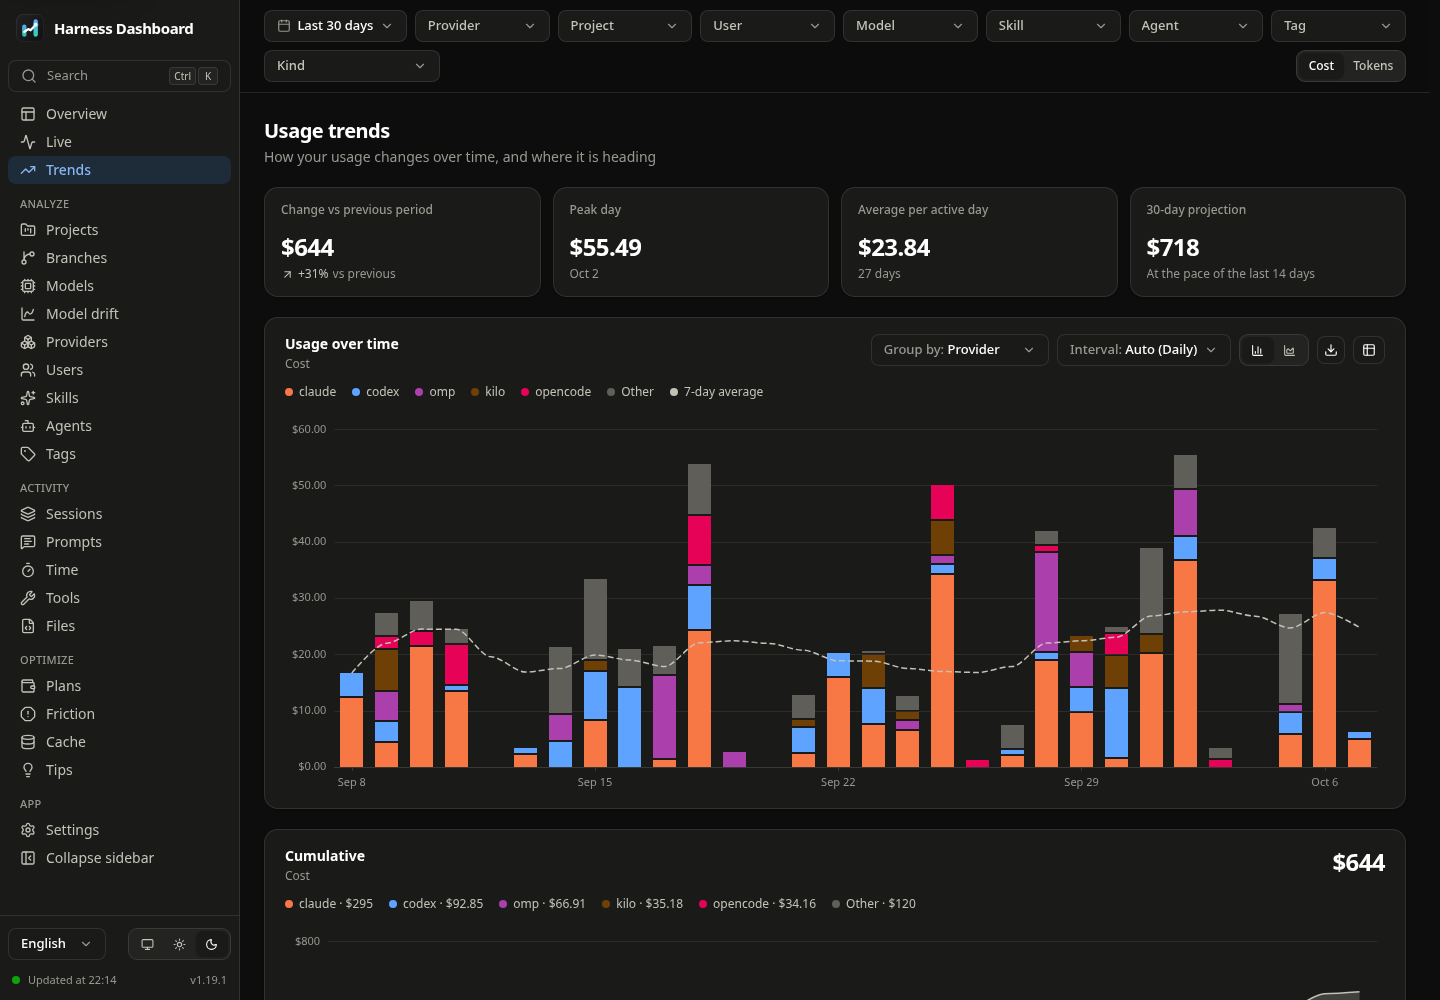
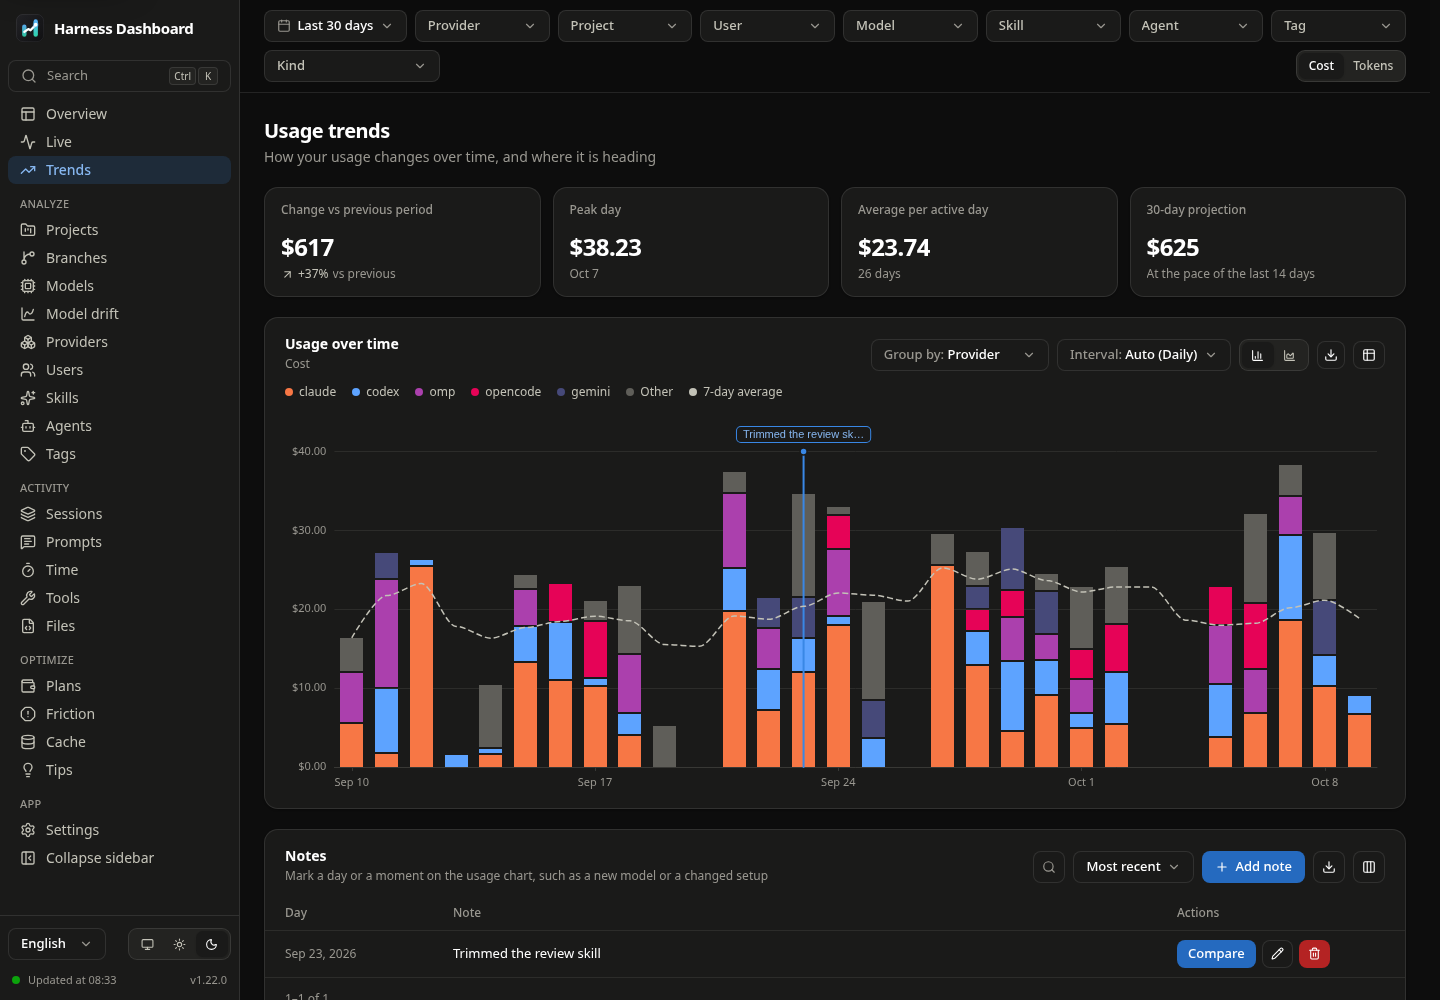
docs: README screenshots of chart notes, commits and PRs, compactions, what-if pricing and API errors, all retaken

diff --git a/scripts/screenshots.ts b/scripts/screenshots.ts
@@ -98,6 +98,72 @@ const SHOTS: Shot[] = [
   { name: "tips", route: "tips" },
   { name: "settings", route: "settings" },
   {
+    name: "note-compare",
+    route: "trends",
+    width: 1600,
+    // The first note's before and after, under the notes list.
+    prepare: async (p) => {
+      await clickButton(p, "Compare");
+      await p.waitFor(`[...document.querySelectorAll("main h2, main h3")].some((h) => h.textContent.trim().startsWith("Before and after"))`, "the before and after card");
+      await p.settle(300);
+      await p.idle();
+    },
+    clip: (p) => cardsClip(p, "Notes", "Before and after"),
+  },
+  {
+    name: "whatif",
+    route: "models",
+    width: 1600,
+    // The models table priced again on another model.
+    prepare: async (p) => {
+      await p.eval(`document.querySelector('main button[title^="Compare with"]').click()`);
+      await p.waitFor(`!!document.querySelector("[role=listbox] [role=option]")`, "the model list");
+      await p.eval(`(() => {
+        const options = [...document.querySelectorAll("[role=listbox] [role=option]")];
+        (options.find((o) => o.textContent.trim().startsWith("claude-haiku-4-5")) ?? options.find((o) => !/In use|No comparison/.test(o.textContent)))?.click();
+      })()`);
+      await p.waitFor(`document.body.innerText.includes("Cost if switched")`, "the what-if columns");
+      await p.settle(300);
+      await p.idle();
+    },
+    clip: (p) => tableClip(p, "Cost if switched"),
+  },
+  {
+    name: "branch-git",
+    route: "branches",
+    prepare: async (p) => {
+      await openFirst(p, "#/branches/");
+      await p.waitFor(`[...document.querySelectorAll("main h2, main h3")].some((h) => h.textContent.trim() === "Commits")`, "the branch's commits");
+    },
+    clip: (p) => cardsClip(p, "Pull requests", "Commits"),
+  },
+  {
+    name: "compactions",
+    route: "sessions",
+    // The session with the most compactions: its context chart with their markers, and their list.
+    prepare: async (p) => {
+      const id = await p.eval<string | null>(`(async () => {
+        const r = await (await fetch("/api/sessions?range=30d&limit=500")).json();
+        const rows = (Array.isArray(r) ? r : r.rows ?? r.sessions ?? []).filter((s) => s.compactions > 0);
+        rows.sort((a, b) => b.compactions - a.compactions);
+        return rows[0]?.id ?? null;
+      })()`);
+      if (!id) fail("no demo session with compactions");
+      await p.eval(`location.hash = ${JSON.stringify(`#/sessions/${encodeURIComponent(id)}`)}`);
+      await p.waitFor(`[...document.querySelectorAll("main h2, main h3")].some((h) => h.textContent.trim() === "Compactions")`, "the compactions list");
+      await p.settle(300);
+      await p.idle();
+      await p.settle(500);
+    },
+    clip: (p) => cardsClip(p, "Context by agent", "Context by agent"),
+  },
+  {
+    name: "api-errors",
+    route: "friction",
+    width: 1600,
+    clip: (p) => cardsClip(p, "API errors over time", "API errors by model"),
+  },
+  {
     name: "palette",
     route: "overview",
     prepare: async (p) => {
@@ -119,6 +185,36 @@ function cardClip(p: Page, title: string): Promise<Clip> {
     const r = card.getBoundingClientRect();
     return { x: r.left - 8, y: r.top + scrollY - 8, width: r.width + 16, height: r.height + 16 };
   })()`);
+}
+
+/** The cards from the one titled `first` to the one titled `last` (a title, or the start of one), wherever they sit. */
+function cardsClip(p: Page, first: string, last: string): Promise<Clip> {
+  return p.eval<Clip>(`(() => {
+    const card = (title) => [...document.querySelectorAll("main h2, main h3")].find((h) => h.textContent.trim().startsWith(title))?.closest(".card");
+    const a = card(${JSON.stringify(first)}), b = card(${JSON.stringify(last)});
+    if (!a || !b) throw new Error(${JSON.stringify(`cards not found: ${first} … ${last}`)});
+    const ra = a.getBoundingClientRect(), rb = b.getBoundingClientRect();
+    const x = Math.min(ra.left, rb.left), r = Math.max(ra.right, rb.right);
+    const y = Math.min(ra.top, rb.top) + scrollY, bottom = Math.max(ra.bottom, rb.bottom) + scrollY;
+    return { x: x - 8, y: y - 8, width: r - x + 16, height: bottom - y + 16 };
+  })()`);
+}
+
+/** The card holding the table with a column headed `column`. */
+function tableClip(p: Page, column: string): Promise<Clip> {
+  return p.eval<Clip>(`(() => {
+    const th = [...document.querySelectorAll("main th")].find((h) => h.textContent.trim().startsWith(${JSON.stringify(column)}));
+    const card = th?.closest(".card");
+    if (!card) throw new Error(${JSON.stringify(`table not found: ${column}`)});
+    const r = card.getBoundingClientRect();
+    return { x: r.left - 8, y: r.top + scrollY - 8, width: r.width + 16, height: Math.min(r.height, 900) + 16 };
+  })()`);
+}
+
+/** Clicks the first button on the page whose text is `text`. */
+async function clickButton(p: Page, text: string): Promise<void> {
+  await p.waitFor(`[...document.querySelectorAll("main button")].some((b) => b.textContent.trim() === ${JSON.stringify(text)})`, `a "${text}" button`);
+  await p.eval(`[...document.querySelectorAll("main button")].find((b) => b.textContent.trim() === ${JSON.stringify(text)}).click()`);
 }
 
 /** Clicks the first row of the page's table, which opens its detail page ("#/sessions/<id>"). */

diff --git a/README.md b/README.md
@@ -52,6 +52,9 @@ Everything runs locally. Your usage is never uploaded anywhere.
     <td width="50%"><img src="docs/screenshots/trends.png" alt="Trends: daily usage, a moving average and the running total"><br><sub><b>Trends</b>: daily usage, a moving average and the running total</sub></td>
   </tr>
   <tr>
+    <td colspan="2"><img src="docs/screenshots/note-compare.png" alt="Chart notes: a note on the usage chart, and the 14 days after it against the 14 days before"><br><sub><b>Chart notes</b>: mark a day on Trends, then compare the days after it with the days before</sub></td>
+  </tr>
+  <tr>
     <td width="50%"><img src="docs/screenshots/flow.png" alt="Where the money goes: from tool to model to project"><br><sub><b>Where the money goes</b>: from tool to model to project</sub></td>
     <td width="50%"><img src="docs/screenshots/network.png" alt="Models by project: a network of what used what, with lights along the busiest links"><br><sub><b>Who used what</b>: models and the projects they worked on, as a network</sub></td>
   </tr>
@@ -60,11 +63,19 @@ Everything runs locally. Your usage is never uploaded anywhere.
   </tr>
   <tr>
     <td width="50%"><img src="docs/screenshots/projects.png" alt="Projects: where the tokens go, project by project"><br><sub><b>Projects</b>: where the tokens go, project by project</sub></td>
-    <td width="50%"><img src="docs/screenshots/branches.png" alt="Branches: what each piece of work cost, with the lines it changed"><br><sub><b>Branches</b>: what each piece of work cost, with the lines it changed</sub></td>
+    <td width="50%"><img src="docs/screenshots/branches.png" alt="Branches: what each piece of work cost, with the lines it changed and its commits"><br><sub><b>Branches</b>: what each piece of work cost, with the lines it changed and its commits</sub></td>
+  </tr>
+  <tr>
+    <td width="50%"><img src="docs/screenshots/branch-git.png" alt="Commits and pull requests: what the agents committed and opened on one branch"><br><sub><b>Commits and pull requests</b>: what the agents committed and opened on a branch</sub></td>
+    <td width="50%"><img src="docs/screenshots/compactions.png" alt="Compactions: where Claude Code compacted a session, on its context chart"><br><sub><b>Compactions</b>: where Claude Code compacted a session, on its context chart</sub></td>
   </tr>
   <tr>
     <td width="50%"><img src="docs/screenshots/models.png" alt="Models: which models do the work and what they cost"><br><sub><b>Models</b>: which models do the work and what they cost</sub></td>
     <td width="50%"><img src="docs/screenshots/model-drift.png" alt="Model drift: whether a model got slower or clumsier than it usually is"><br><sub><b>Model drift</b>: whether a model got slower or clumsier than it usually is</sub></td>
+  </tr>
+  <tr>
+    <td width="50%"><img src="docs/screenshots/whatif.png" alt="What-if pricing: what each model's usage would have cost on another model"><br><sub><b>What-if pricing</b>: what the same usage would have cost on another model</sub></td>
+    <td width="50%"><img src="docs/screenshots/api-errors.png" alt="API errors: failed model requests over time by cause, and by model"><br><sub><b>API errors</b>: failed model requests over time by cause, and by model</sub></td>
   </tr>
   <tr>
     <td width="50%"><img src="docs/screenshots/providers.png" alt="Providers: Claude Code, Codex, omp, OpenCode and pi side by side"><br><sub><b>Providers</b>: Claude Code, Codex, omp, OpenCode and pi side by side</sub></td>
